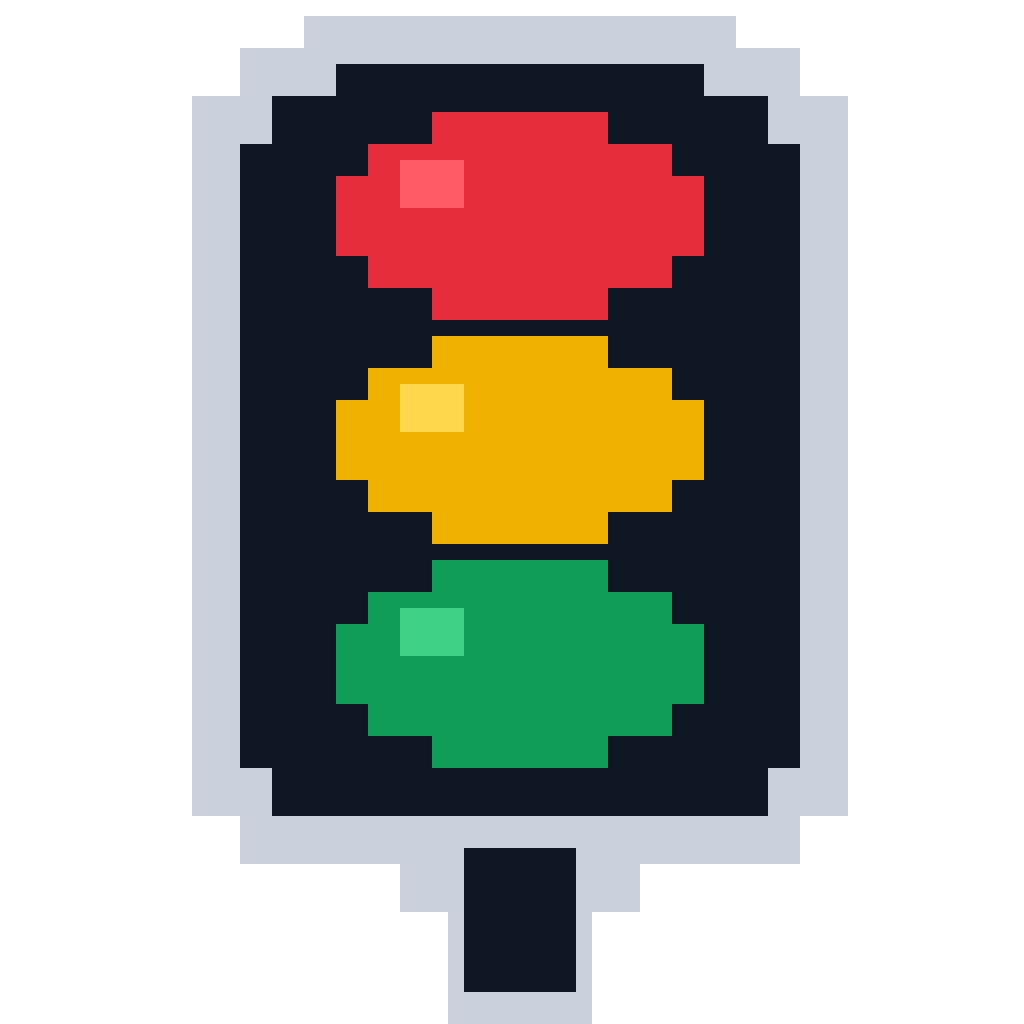
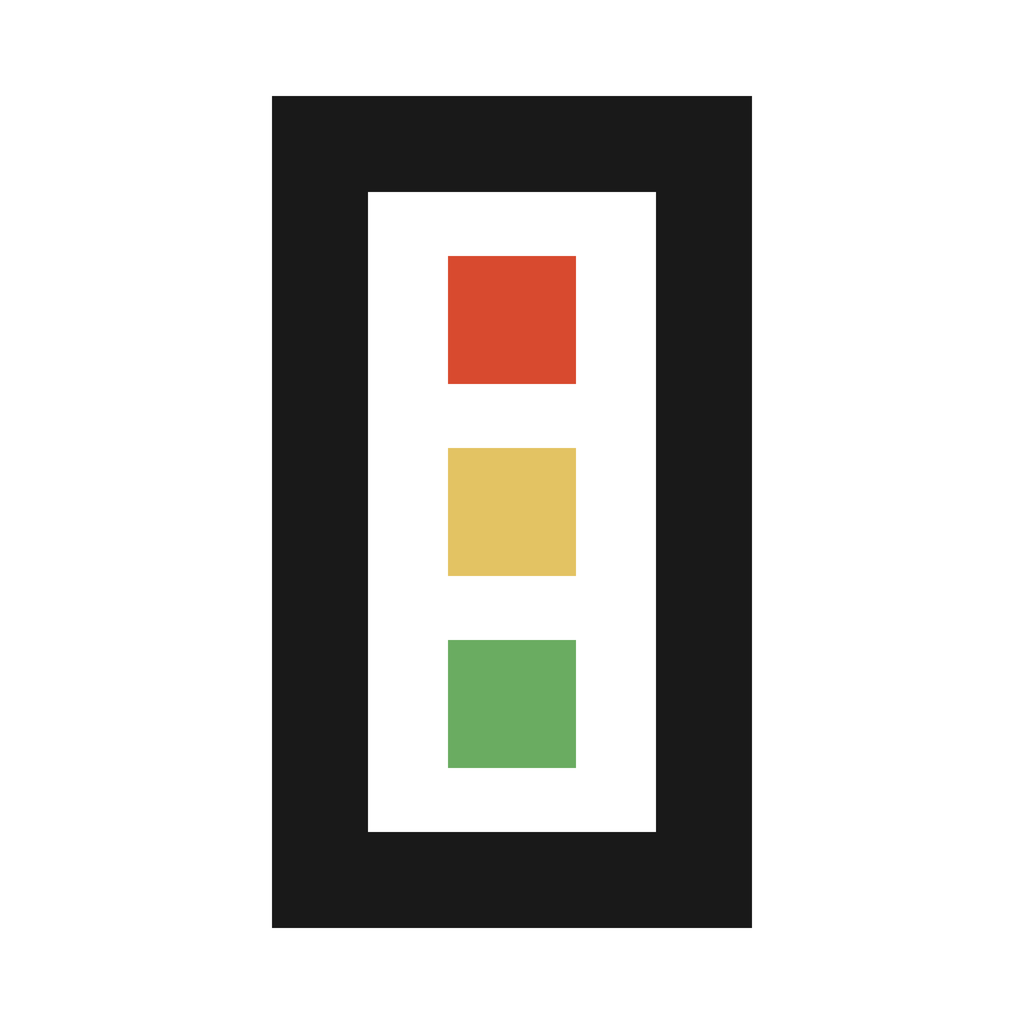
release: v1.6.1

diff --git a/tools/generate_pixel_logo.py b/tools/generate_pixel_logo.py
@@ -8,46 +8,50 @@ from PIL import Image, ImageDraw
 ROOT = Path(__file__).resolve().parents[1]
 PNG_PATH = ROOT / "assets" / "Agent-Beacon.png"
 ICO_PATH = ROOT / "assets" / "Agent-Beacon.ico"
+SVG_PATH = ROOT / "assets" / "Agent-Beacon.svg"
 SIZES = (16, 20, 24, 32, 40, 48, 64, 128, 256)
+VIEWBOX = 64
+
+WHITE = (255, 255, 255, 255)
+INK = (25, 25, 25, 255)
+RED = (216, 74, 47, 255)
+YELLOW = (227, 195, 99, 255)
+GREEN = (106, 172, 97, 255)
+
+OUTER_FRAME = (17, 6, 46, 57)
+INNER_WELL = (23, 12, 40, 51)
+LIGHTS = (
+    ((28, 16, 35, 23), RED),
+    ((28, 28, 35, 35), YELLOW),
+    ((28, 40, 35, 47), GREEN),
+)
 
 
-def pixel_logo() -> Image.Image:
-    image = Image.new("RGBA", (64, 64), (0, 0, 0, 0))
+def scaled_box(rectangle: tuple[int, int, int, int], size: int) -> tuple[int, int, int, int]:
+    left, top, right, bottom = rectangle
+    x1 = round(left * size / VIEWBOX)
+    y1 = round(top * size / VIEWBOX)
+    x2 = max(x1, round((right + 1) * size / VIEWBOX) - 1)
+    y2 = max(y1, round((bottom + 1) * size / VIEWBOX) - 1)
+    return x1, y1, x2, y2
+
+
+def draw_direct(size: int) -> Image.Image:
+    image = Image.new("RGBA", (size, size), WHITE)
     draw = ImageDraw.Draw(image)
 
-    outer = [
-        (19, 1), (45, 1), (45, 3), (49, 3), (49, 6), (52, 6),
-        (52, 50), (49, 50), (49, 53), (39, 53), (39, 56),
-        (36, 56), (36, 63), (28, 63), (28, 56), (25, 56),
-        (25, 53), (15, 53), (15, 50), (12, 50), (12, 6),
-        (15, 6), (15, 3), (19, 3),
-    ]
-    inner = [
-        (21, 4), (43, 4), (43, 6), (47, 6), (47, 9), (49, 9),
-        (49, 47), (47, 47), (47, 50), (17, 50), (17, 47),
-        (15, 47), (15, 9), (17, 9), (17, 6), (21, 6),
-    ]
-    draw.polygon(outer, fill=(202, 209, 220, 255))
-    draw.polygon(inner, fill=(15, 23, 36, 255))
-    draw.rectangle((29, 53, 35, 61), fill=(15, 23, 36, 255))
-
-    def light(top: int, color: tuple[int, int, int, int], highlight: tuple[int, int, int, int]) -> None:
-        shape = [
-            (27, top), (37, top), (37, top + 2), (41, top + 2),
-            (41, top + 4), (43, top + 4), (43, top + 8),
-            (41, top + 8), (41, top + 10), (37, top + 10),
-            (37, top + 12), (27, top + 12), (27, top + 10),
-            (23, top + 10), (23, top + 8), (21, top + 8),
-            (21, top + 4), (23, top + 4), (23, top + 2),
-            (27, top + 2),
-        ]
-        draw.polygon(shape, fill=color)
-        draw.rectangle((25, top + 3, 28, top + 5), fill=highlight)
-
-    light(7, (230, 45, 59, 255), (255, 91, 103, 255))
-    light(21, (240, 177, 0, 255), (255, 216, 77, 255))
-    light(35, (16, 157, 88, 255), (64, 210, 132, 255))
+    draw.rectangle(scaled_box(OUTER_FRAME, size), fill=INK)
+    draw.rectangle(scaled_box(INNER_WELL, size), fill=WHITE)
+    for rectangle, color in LIGHTS:
+        draw.rectangle(scaled_box(rectangle, size), fill=color)
     return image
+
+
+def logo(size: int) -> Image.Image:
+    if size <= 64:
+        return draw_direct(64).resize((size, size), Image.Resampling.NEAREST)
+    scale = 4
+    return draw_direct(size * scale).resize((size, size), Image.Resampling.LANCZOS)
 
 
 def png_bytes(image: Image.Image) -> bytes:
@@ -56,12 +60,8 @@ def png_bytes(image: Image.Image) -> bytes:
     return buffer.getvalue()
 
 
-def write_ico(base: Image.Image) -> None:
-    frames = []
-    for size in SIZES:
-        frame = base.resize((size, size), Image.Resampling.NEAREST)
-        frames.append((size, png_bytes(frame)))
-
+def write_ico() -> None:
+    frames = [(size, png_bytes(logo(size))) for size in SIZES]
     header_size = 6 + 16 * len(frames)
     offset = header_size
     entries = []
@@ -77,18 +77,51 @@ def write_ico(base: Image.Image) -> None:
             icon_file.write(payload)
 
 
-def main() -> None:
-    base = pixel_logo()
-    preview = base.resize((1024, 1024), Image.Resampling.NEAREST)
-    preview.save(PNG_PATH, format="PNG", optimize=True)
-    write_ico(base)
+def write_svg() -> None:
+    outer_left, outer_top, outer_right, outer_bottom = OUTER_FRAME
+    inner_left, inner_top, inner_right, inner_bottom = INNER_WELL
+    lights = "\n".join(
+        f'  <rect x="{left}" y="{top}" width="{right - left + 1}" height="{bottom - top + 1}" fill="#{color[0]:02X}{color[1]:02X}{color[2]:02X}"/>'
+        for (left, top, right, bottom), color in LIGHTS
+    )
+    svg = f"""<svg xmlns="http://www.w3.org/2000/svg" viewBox="0 0 {VIEWBOX} {VIEWBOX}" role="img" aria-labelledby="title description">
+  <title id="title">Agent Beacon</title>
+  <desc id="description">Centered black rectangular traffic-light frame with three centered square status blocks on an opaque white background.</desc>
+  <rect width="{VIEWBOX}" height="{VIEWBOX}" fill="#FFFFFF"/>
+  <rect x="{outer_left}" y="{outer_top}" width="{outer_right - outer_left + 1}" height="{outer_bottom - outer_top + 1}" fill="#191919"/>
+  <rect x="{inner_left}" y="{inner_top}" width="{inner_right - inner_left + 1}" height="{inner_bottom - inner_top + 1}" fill="#FFFFFF"/>
+{lights}
+</svg>
+"""
+    SVG_PATH.write_text(svg, encoding="utf-8", newline="\n")
 
-    alpha = base.getchannel("A")
-    if alpha.getpixel((0, 0)) != 0 or alpha.getpixel((32, 32)) != 255:
-        raise RuntimeError("Logo transparency validation failed")
-    if len(base.getcolors(maxcolors=256) or []) > 9:
-        raise RuntimeError("Logo palette is no longer pixel-art constrained")
+
+def validate() -> None:
+    preview = logo(1024)
+    if preview.getchannel("A").getextrema() != (255, 255):
+        raise RuntimeError("Logo background must remain fully opaque")
+    if preview.getpixel((0, 0)) != WHITE:
+        raise RuntimeError("Logo canvas corners must remain white")
+
+    tiny = logo(16)
+    pixels = list(tiny.get_flattened_data())
+    checks = (
+        ("red", lambda p: p[0] > p[1] + 30 and p[0] > p[2] + 30),
+        ("yellow", lambda p: p[0] > 150 and p[1] > 80 and p[1] > p[2] + 30),
+        ("green", lambda p: p[1] > p[0] + 30 and p[1] > p[2] + 20),
+    )
+    for name, predicate in checks:
+        if not any(predicate(pixel) for pixel in pixels):
+            raise RuntimeError(f"{name} status light is not readable at 16px")
+
+
+def main() -> None:
+    validate()
+    logo(1024).save(PNG_PATH, format="PNG", optimize=True)
+    write_ico()
+    write_svg()
     print(f"Wrote {PNG_PATH}")
+    print(f"Wrote {SVG_PATH}")
     print(f"Wrote {ICO_PATH} with sizes: {', '.join(map(str, SIZES))}")
 
 

diff --git a/AppInfo.cs b/AppInfo.cs
@@ -5,13 +5,13 @@ using System.Reflection;
 [assembly: AssemblyCompany("LAUFLO")]
 [assembly: AssemblyProduct("Agent Beacon")]
 [assembly: AssemblyCopyright("Copyright © LAUFLO 2026")]
-[assembly: AssemblyVersion("1.6.0.0")]
-[assembly: AssemblyFileVersion("1.6.0.0")]
-[assembly: AssemblyInformationalVersion("1.6.0")]
+[assembly: AssemblyVersion("1.6.1.0")]
+[assembly: AssemblyFileVersion("1.6.1.0")]
+[assembly: AssemblyInformationalVersion("1.6.1")]
 
 namespace AgentTrafficLightNative {
   static class AppInfo {
-    public const string Version = "1.6.0";
+    public const string Version = "1.6.1";
     public const string Repository = "LAUFLO/agent-beacon";
     public const string ReleaseApi = "https://api.github.com/repos/LAUFLO/agent-beacon/releases/latest";
   }

diff --git a/TraeMcpHost.cs b/TraeMcpHost.cs
@@ -11,7 +11,7 @@ namespace AgentBeaconTraeMcp {
   // The settings installer extracts it locally, and TRAE communicates with it
   // through newline-delimited JSON-RPC over stdio.
   static class TraeMcpHost {
-    const string Version = "1.6.0";
+    const string Version = "1.6.1";
     static readonly JavaScriptSerializer Json = new JavaScriptSerializer { MaxJsonLength = 4 * 1024 * 1024 };
     static readonly string ProcessSession = "mcp-" + Process.GetCurrentProcess().Id + "-" + DateTimeOffset.UtcNow.ToUnixTimeMilliseconds();
     static string Home { get { string configured = Environment.GetEnvironmentVariable("AGENT_TRAFFIC_LIGHT_HOME"); if (!String.IsNullOrWhiteSpace(configured)) return configured; string profile = Environment.GetEnvironmentVariable("USERPROFILE"); return String.IsNullOrWhiteSpace(profile) ? Environment.GetFolderPath(Environment.SpecialFolder.UserProfile) : profile; } }

diff --git a/releases/v1.6.1.md b/releases/v1.6.1.md
@@ -1,0 +1,14 @@
+# Agent Beacon v1.6.1
+
+## 更新内容
+
+- 全面更新 Agent Beacon 品牌图标：使用居中的黑色直角灯框与三枚直角状态色块，保持纯白不透明背景。
+- 应用主程序、安装包、窗口标题栏、任务栏和系统关联图标统一使用新版多尺寸 ICO。
+- README 展示图更新为新版 PNG，并新增同几何、同配色的 SVG 矢量版本。
+- Logo 生成脚本改为单一几何源，同时生成 PNG、SVG 和包含 16–256 像素九种尺寸的 ICO，避免不同格式之间出现比例差异。
+
+## 文件
+
+- 单文件：`Agent-Beacon-1.6.1.exe`
+- 便携包：`Agent-Beacon-Portable-1.6.1.zip`
+- 安装包：`Agent-Beacon-Setup-1.6.1.exe`